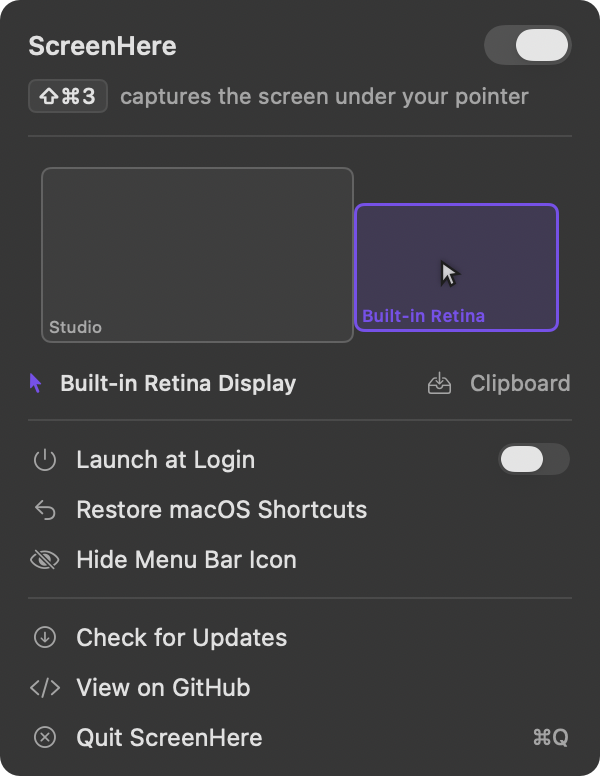
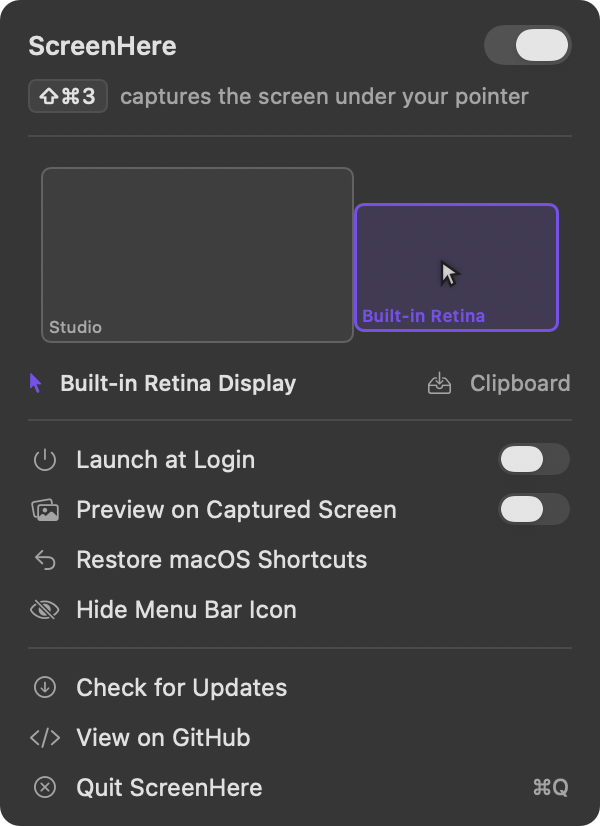
fix: the map was highlighting the wrong display
captureIndex speaks screencapture's language, where displays are numbered from
one; the map indexes an array. The conversion was lost when refresh() was
rewritten for the polling fix, so the highlight sat one display too far along
and the caption read 'unknown display' whenever the pointer was on the last
one. Visible on every Mac since v1.0.4, and noticed only because a
documentation shot printed the number.

Pinned by tests over an arrangement, including the case that broke: the
pointer on the last display, and the invariant that the index always addresses
a real one.

Also stops Sparkle starting outside an app bundle. It needs a bundle identity
to compare against and an installer to hand over to; without one it fails and
says so in a modal alert, which is what 'swift run' and the documentation
harness both produced.

The README screenshots are regenerated: they predated the preview row, so they
no longer showed the app as it is.

diff --git a/Tests/ScreenHereTests/PanelModelTests.swift b/Tests/ScreenHereTests/PanelModelTests.swift
@@ -1,0 +1,57 @@
+import CoreGraphics
+import XCTest
+@testable import ScreenHere
+
+/// The map highlights `activeDisplayIndex` and names the display it points at.
+/// `screencapture` numbers displays from one and an array indexes from zero,
+/// and losing that conversion highlights the wrong screen while the caption
+/// reads "unknown display" — visible on every Mac, and caught by nothing until
+/// a documentation shot happened to print the number.
+@MainActor
+final class PanelModelTests: XCTestCase {
+
+    private let external = DisplayInfo(id: 90, bounds: CGRect(x: 0, y: 0, width: 2560, height: 1440))
+    private let laptop = DisplayInfo(id: 91, bounds: CGRect(x: 2560, y: 0, width: 1680, height: 1050))
+
+    private func model(pointer: CGPoint, displays: [DisplayInfo]) -> PanelModel {
+        let takeover = TakeoverController(
+            store: FakeSymbolicHotkeyStore(), binding: FakeHotkeyBinding(),
+            defaults: .makeTransient(), capture: { _, _ in }, currentDisplayIndex: { 1 })
+        let model = PanelModel(takeover: takeover)
+        model.sampleDisplays = { displays }
+        model.samplePointer = { pointer }
+        model.posedNames = [90: "Studio", 91: "Built-in"]
+        model.posedState = (permission: true, isOn: true)
+        model.refresh()
+        return model
+    }
+
+    func testTheFirstDisplayIsIndexZero() {
+        let m = model(pointer: CGPoint(x: 100, y: 100), displays: [external, laptop])
+        XCTAssertEqual(m.activeDisplayIndex, 0)
+        XCTAssertEqual(m.activeDisplayName, "Studio")
+    }
+
+    /// The case the off-by-one broke: the pointer on the last display fell off
+    /// the end of the array.
+    func testTheLastDisplayIsInRange() {
+        let m = model(pointer: CGPoint(x: 3300, y: 500), displays: [external, laptop])
+        XCTAssertEqual(m.activeDisplayIndex, 1)
+        XCTAssertEqual(m.activeDisplayName, "Built-in")
+    }
+
+    func testASingleDisplayIsAlwaysIndexZero() {
+        let m = model(pointer: CGPoint(x: 400, y: 400), displays: [laptop])
+        XCTAssertEqual(m.activeDisplayIndex, 0)
+        XCTAssertEqual(m.activeDisplayName, "Built-in")
+    }
+
+    /// Whatever the arrangement, the index must address a real display.
+    func testTheIndexAlwaysAddressesADisplay() {
+        for point in [CGPoint(x: 0, y: 0), CGPoint(x: 4239, y: 1049), CGPoint(x: -900, y: -900)] {
+            let m = model(pointer: point, displays: [external, laptop])
+            XCTAssertTrue((0..<2).contains(m.activeDisplayIndex),
+                          "index \(m.activeDisplayIndex) out of range for \(point)")
+        }
+    }
+}

diff --git a/Sources/ScreenHere/PanelModel.swift b/Sources/ScreenHere/PanelModel.swift
@@ -33,6 +33,10 @@ final class PanelModel: ObservableObject {
     /// previews and the documentation shots, empty in the running app.
     var posedNames: [CGDirectDisplayID: String] = [:]
 
+    /// Overrides the permission and takeover state for documentation shots,
+    /// which run outside an app bundle and therefore hold neither.
+    var posedState: (permission: Bool, isOn: Bool)?
+
     init(takeover: TakeoverController) {
         self.takeover = takeover
         refresh()
@@ -86,12 +90,17 @@ final class PanelModel: ObservableObject {
         }
 
         self.pointer = pointer
+        // captureIndex speaks screencapture's language, where displays are
+        // numbered from one. The map indexes an array.
         activeDisplayIndex = CursorDisplay.captureIndex(
-            for: pointer, in: displays, mainDisplayID: CGMainDisplayID())
+            for: pointer, in: displays, mainDisplayID: CGMainDisplayID()) - 1
         let activeID = displays.indices.contains(activeDisplayIndex)
             ? displays[activeDisplayIndex].id : nil
-        activeDisplayName = CursorDisplay.displayName(at: pointer)
-            ?? activeID.flatMap { posedNames[$0] }
+        // Posed names win when they exist, so a documentation shot or a test is
+        // not overruled by whatever real screen happens to sit under the point.
+        // The map is empty in the running app, so this changes nothing there.
+        activeDisplayName = activeID.flatMap { posedNames[$0] }
+            ?? CursorDisplay.displayName(at: pointer)
             ?? "unknown display"
     }
 
@@ -102,11 +111,12 @@ final class PanelModel: ObservableObject {
     /// and drove the window server to 50%.
     func refreshEnvironment() {
         destination = ScreenshotSettings.current
-        hasPermission = CaptureRunner.hasScreenRecordingPermission
-        isOn = takeover.isOn
+        hasPermission = posedState?.permission ?? CaptureRunner.hasScreenRecordingPermission
+        isOn = posedState?.isOn ?? takeover.isOn
         launchesAtLogin = LoginItem.isEnabled
         showsOwnPreview = PreviewCoordinator.isEnabled
-        systemStillHandlesShortcut = takeover.isOn && !takeover.holdsShortcuts
+        systemStillHandlesShortcut = posedState == nil
+            && takeover.isOn && !takeover.holdsShortcuts
     }
 
     // MARK: - Actions

diff --git a/Sources/ScreenHere/UpdaterController.swift b/Sources/ScreenHere/UpdaterController.swift
@@ -22,14 +22,20 @@ final class UpdaterController: NSObject, ObservableObject, SPUUpdaterDelegate {
     @Published private(set) var canCheckForUpdates = false
     @Published private(set) var availableVersion: String?
 
-    private var controller: SPUStandardUpdaterController!
+    private var controller: SPUStandardUpdaterController?
+
+    /// Sparkle needs a real app bundle: a bare executable has no identity to
+    /// compare against and no installer to hand over to, and it says so with a
+    /// modal alert. `swift run` and the documentation harness both hit that.
+    private static var canRun: Bool { Bundle.main.bundleIdentifier != nil }
 
     override init() {
         super.init()
+        guard Self.canRun else { return }
         controller = SPUStandardUpdaterController(startingUpdater: true,
                                                   updaterDelegate: self,
                                                   userDriverDelegate: self)
-        controller.updater.publisher(for: \.canCheckForUpdates)
+        controller?.updater.publisher(for: \.canCheckForUpdates)
             .assign(to: &$canCheckForUpdates)
 
         // One silent check shortly after launch so the panel can show a badge,
@@ -41,13 +47,14 @@ final class UpdaterController: NSObject, ObservableObject, SPUUpdaterDelegate {
 
     /// Ask the feed without showing anything.
     func checkQuietly() {
-        guard canCheckForUpdates else { return }
+        guard let controller, canCheckForUpdates else { return }
         controller.updater.checkForUpdateInformation()
     }
 
     /// Manual check — shows Sparkle's UI even when already up to date, and is
     /// how an offered update actually gets installed.
     func checkForUpdates() {
+        guard let controller else { return }
         comeToFront()
         controller.updater.checkForUpdates()
     }

diff --git a/README.md b/README.md
@@ -27,7 +27,7 @@ There is no new shortcut to learn. ScreenHere borrows the one you already use.
 <br/>
 <picture>
   <source media="(prefers-color-scheme: dark)" srcset="docs/assets/panel-dark.png">
-  <img alt="The ScreenHere panel: a live map of two displays with the one under the pointer highlighted, the destination, and the controls" src="docs/assets/panel-light.png" width="330">
+  <img alt="The ScreenHere panel: a live map of two displays with the one under the pointer filled in, where captures are going, and the controls" src="docs/assets/panel-light.png" width="330">
 </picture>
 <br/><br/>
 </div>
